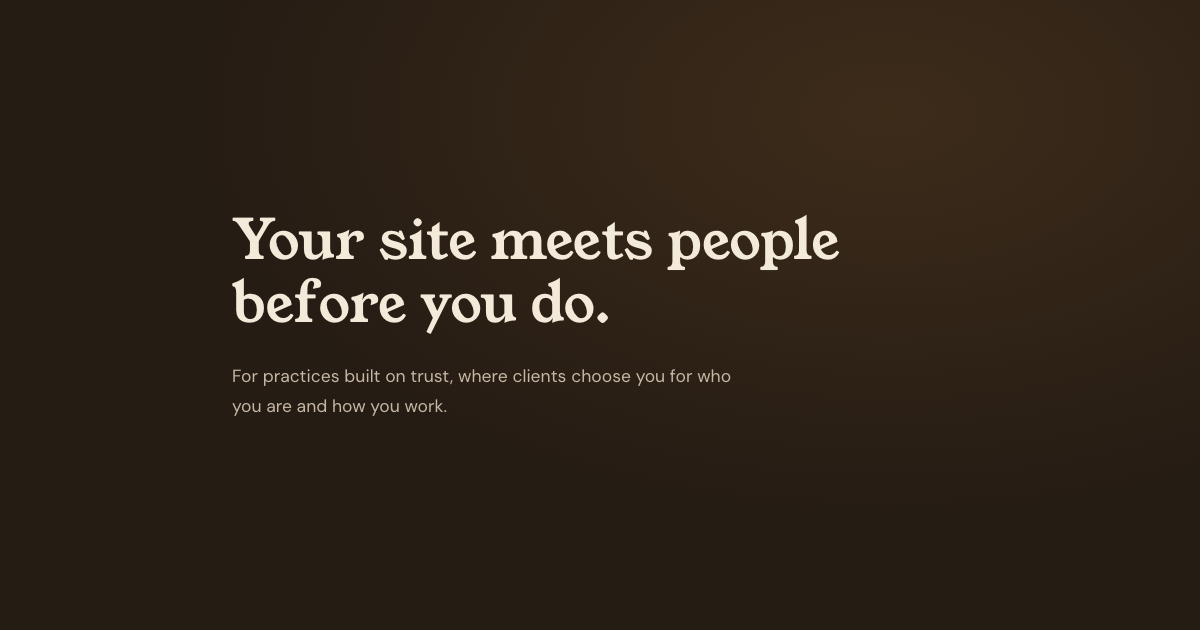
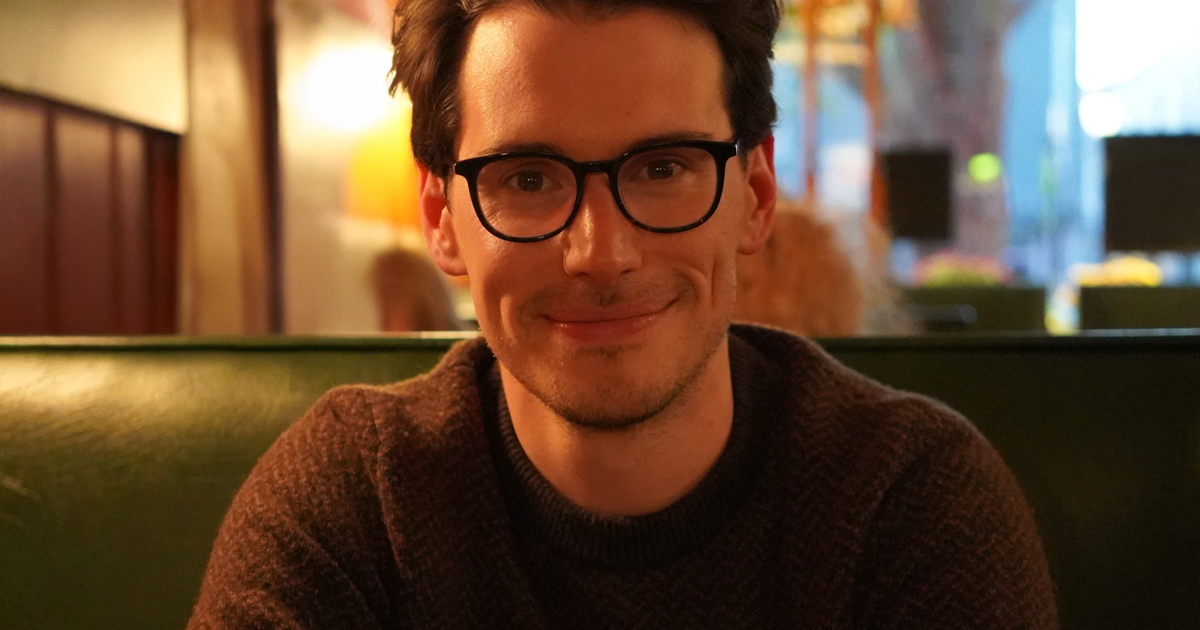
Websites pitch: cream inverted bands, larger headshot, headshot OG image
What You Own and Getting Started invert to cream with espresso type
(green band removed), breathewitheli.com restored inline in Why Me,
headshot up to 280px, social image is now the headshot crop.

diff --git a/websites/index.html b/websites/index.html
@@ -47,6 +47,9 @@ h1,h2,h3 { font-family: var(--display); font-weight: 400; }
 .spine-label { font-size: .64rem; font-weight: 600; letter-spacing: .1em; text-transform: uppercase; color: rgba(243,234,217,0.4); white-space: nowrap; }
 .spine-item:hover .spine-dot { transform: scale(1.4); border-color: var(--amber); }
 .spine-item.active .spine-dot { background: var(--amber); border-color: var(--amber); }
+.spine-item.on-light .spine-label { color: rgba(42,33,26,0.55); }
+.spine-item.on-light .spine-dot { background: var(--card-light); border-color: rgba(168,95,30,0.55); }
+.spine-item.on-light.active .spine-dot { background: #a85f1e; border-color: #a85f1e; }
 
 /* ── LAYOUT / REVEAL ── */
 .content { max-width: 800px; margin: 0 auto; padding: 0 2rem 0 90px; }
@@ -78,7 +81,7 @@ h1,h2,h3 { font-family: var(--display); font-weight: 400; }
 .callout strong { color: var(--amber); font-weight: 400; }
 
 /* ── WHY ME / HEADSHOT / LOGOS ── */
-.why-grid { display: grid; grid-template-columns: minmax(0,1fr) 230px; gap: 2.8rem; align-items: start; }
+.why-grid { display: grid; grid-template-columns: minmax(0,1fr) 280px; gap: 2.8rem; align-items: start; }
 .headshot img { width: 100%; display: block; border-radius: 12px; }
 .headshot { position: relative; }
 .headshot::after { content:''; position: absolute; inset: 0; border-radius: 12px; box-shadow: inset 0 0 0 1px rgba(243,234,217,0.12); pointer-events: none; }
@@ -88,11 +91,15 @@ h1,h2,h3 { font-family: var(--display); font-weight: 400; }
 .logo-strip img:hover { opacity: 1; }
 .logo-strip img.svg-logo { filter: brightness(0) invert(1); }
 
-/* ── GREEN BAND (What you own) ── */
-.own-band { background: var(--green); position: relative; overflow: hidden; }
-.own-band::before { content:''; position: absolute; inset: 0; background: radial-gradient(ellipse at 30% 60%, rgba(208,138,62,0.1) 0%, transparent 58%); pointer-events: none; }
+/* ── LIGHT BANDS ── */
+.band-light { background: var(--card-light); position: relative; overflow: hidden; }
+.band-light::before { content:''; position: absolute; inset: 0; background: radial-gradient(ellipse at 30% 60%, rgba(208,138,62,0.12) 0%, transparent 58%); pointer-events: none; }
 .own-inner { max-width: 800px; margin: 0 auto; padding: 6rem 2rem 6rem 90px; position: relative; }
-.own-inner .body-text { color: rgba(243,234,217,0.68); }
+.band-light .section-label { color: #a85f1e; }
+.band-light .section-title { color: var(--ink); }
+.band-light .body-text { color: var(--mid); }
+.band-light .body-text a { color: var(--ink); text-decoration-color: rgba(168,95,30,0.45); }
+.band-light .body-text a:hover { text-decoration-color: #a85f1e; }
 
 /* ── PRICING ── */
 .price-grid { display: grid; grid-template-columns: 1fr; gap: 1.2rem; margin-top: 2.4rem; max-width: 680px; }
@@ -107,10 +114,10 @@ h1,h2,h3 { font-family: var(--display); font-weight: 400; }
 .price-card.primary .price-kicker { color: #b06a26; }
 
 /* ── CLOSING ── */
-.contact-block { border-top: 1px solid var(--line); margin-top: 2.6rem; padding-top: 2rem; font-size: .95rem; color: var(--body); line-height: 2; }
-.contact-name { font-family: var(--display); font-size: 1.25rem; color: var(--cream); margin-bottom: .3rem; }
-.contact-block a { color: var(--cream); font-weight: 600; text-decoration: underline; text-decoration-color: var(--amber-soft); text-underline-offset: 3px; }
-.contact-block a:hover { text-decoration-color: var(--amber); }
+.contact-block { border-top: 1px solid rgba(42,33,26,0.15); margin-top: 2.6rem; padding-top: 2rem; font-size: .95rem; color: var(--mid); line-height: 2; }
+.contact-name { font-family: var(--display); font-size: 1.25rem; color: var(--ink); margin-bottom: .3rem; }
+.contact-block a { color: var(--ink); font-weight: 600; text-decoration: underline; text-decoration-color: rgba(168,95,30,0.45); text-underline-offset: 3px; }
+.contact-block a:hover { text-decoration-color: #a85f1e; }
 
 footer { background: #1c150f; color: rgba(243,234,217,0.38); font-size: .78rem; }
 .foot-inner { max-width: 800px; margin: 0 auto; padding: 1.6rem 2rem 1.6rem 90px; display: flex; justify-content: space-between; gap: 1rem; flex-wrap: wrap; }
@@ -180,7 +187,7 @@ body.og-mode .hero-inner { padding-left: 2rem; }
         <h2 class="section-title reveal d1">I know this territory from the inside.</h2>
         <div class="why-grid reveal d2">
             <div>
-                <p class="body-text">I facilitate breathwork and run a men&rsquo;s group alongside my production career, and I built the site that runs my own practice, with the scheduling, the payments, and the email list all doing their jobs every day. I know what it is to be the whole business: the practitioner, the schedule, and the person answering the inquiries.</p>
+                <p class="body-text">I facilitate breathwork and run a men&rsquo;s group alongside my production career, and I built the site that runs my own practice, <a href="https://breathewitheli.com" target="_blank" rel="noopener">breathewitheli.com</a>, with the scheduling, the payments, and the email list all doing their jobs every day. I know what it is to be the whole business: the practitioner, the schedule, and the person answering the inquiries.</p>
                 <p class="body-text">The other half of my working life is commercial production. I spent fifteen years editing, directing, and producing for global brands, the kind of work where a viewer gives you ten seconds and every one of those seconds is fought over. Practices like yours almost never get that level of craft, because the businesses that can afford it are not the businesses doing this work. I am the overlap.</p>
                 <p class="body-text">You can see that work at <a href="https://eliharrigan.com" target="_blank" rel="noopener">eliharrigan.com</a> and judge for yourself.</p>
             </div>
@@ -209,7 +216,7 @@ body.og-mode .hero-inner { padding-left: 2rem; }
 </section>
 
 <!-- ── WHAT YOU OWN ── -->
-<section class="own-band" id="s-own" data-section>
+<section class="own-band band-light" id="s-own" data-section>
     <div class="own-inner">
         <p class="section-label reveal">What you own</p>
         <h2 class="section-title reveal d1">Everything about the site belongs to you.</h2>
@@ -247,7 +254,7 @@ body.og-mode .hero-inner { padding-left: 2rem; }
 </section>
 
 <!-- ── GETTING STARTED ── -->
-<section class="closing" id="s-start" data-section>
+<section class="closing band-light" id="s-start" data-section>
     <div class="content section-wrap">
         <p class="section-label reveal">Getting started</p>
         <h2 class="section-title reveal d1">One conversation, then something real.</h2>
@@ -296,8 +303,11 @@ function updateSpine() {
     document.getElementById('spineFill').style.height = (max > 0 ? (scrollY / max * 100) : 0) + '%';
     let active = sections[0];
     sections.forEach(s => { if (s.getBoundingClientRect().top < innerHeight * 0.5) active = s; });
+    const lightRects = [...document.querySelectorAll('.band-light')].map(el => el.getBoundingClientRect());
     spine.querySelectorAll('.spine-item').forEach(n => {
         n.classList.toggle('active', n.dataset.for === active.id);
+        const y = n.getBoundingClientRect().top;
+        n.classList.toggle('on-light', lightRects.some(r => y >= r.top && y <= r.bottom));
     });
 }
 addEventListener('load', () => { buildDots(); updateSpine(); });